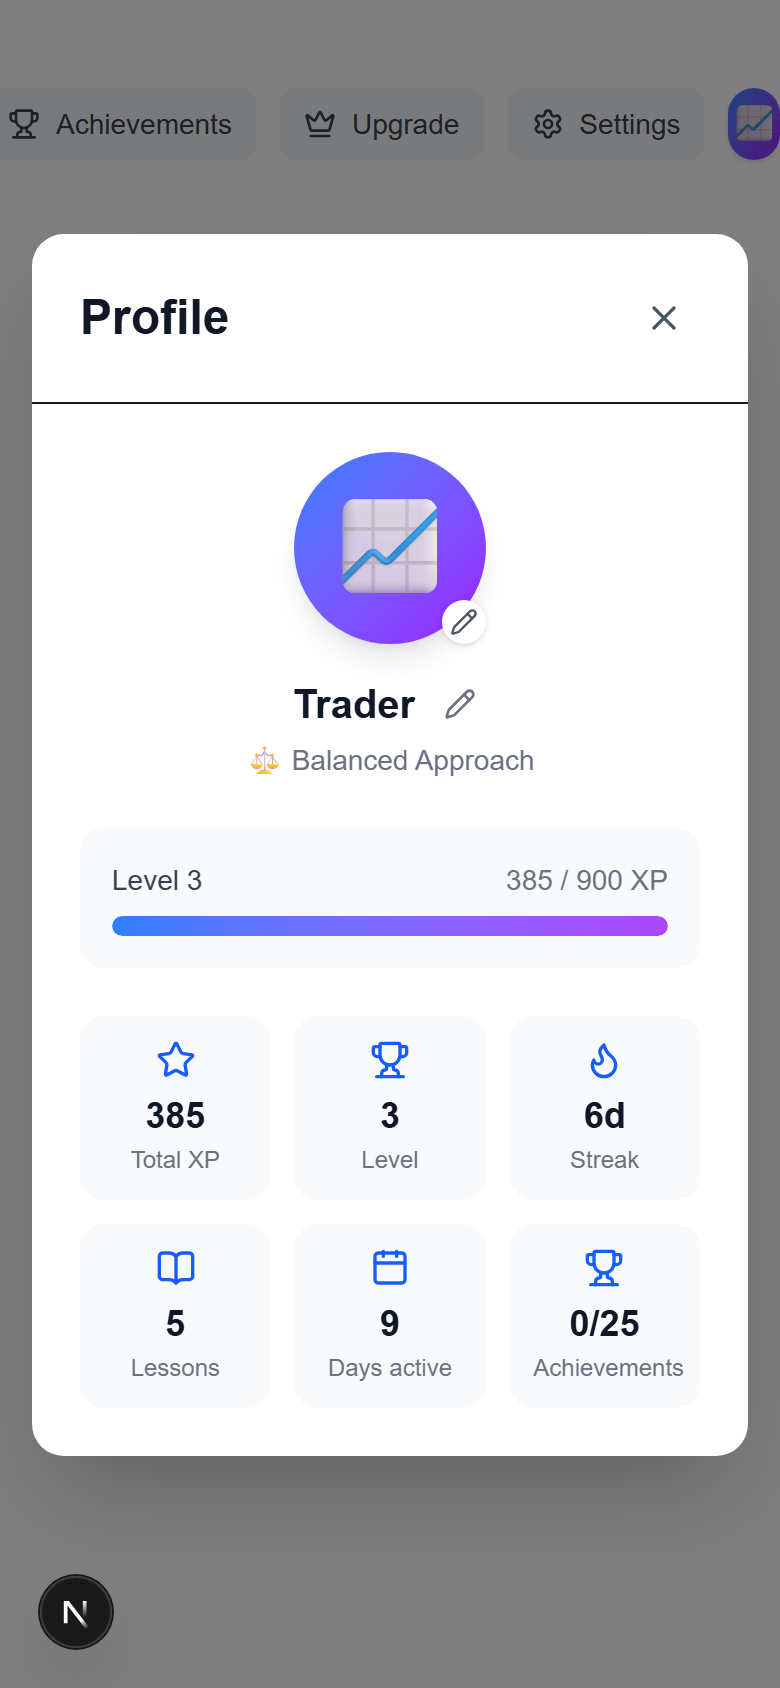
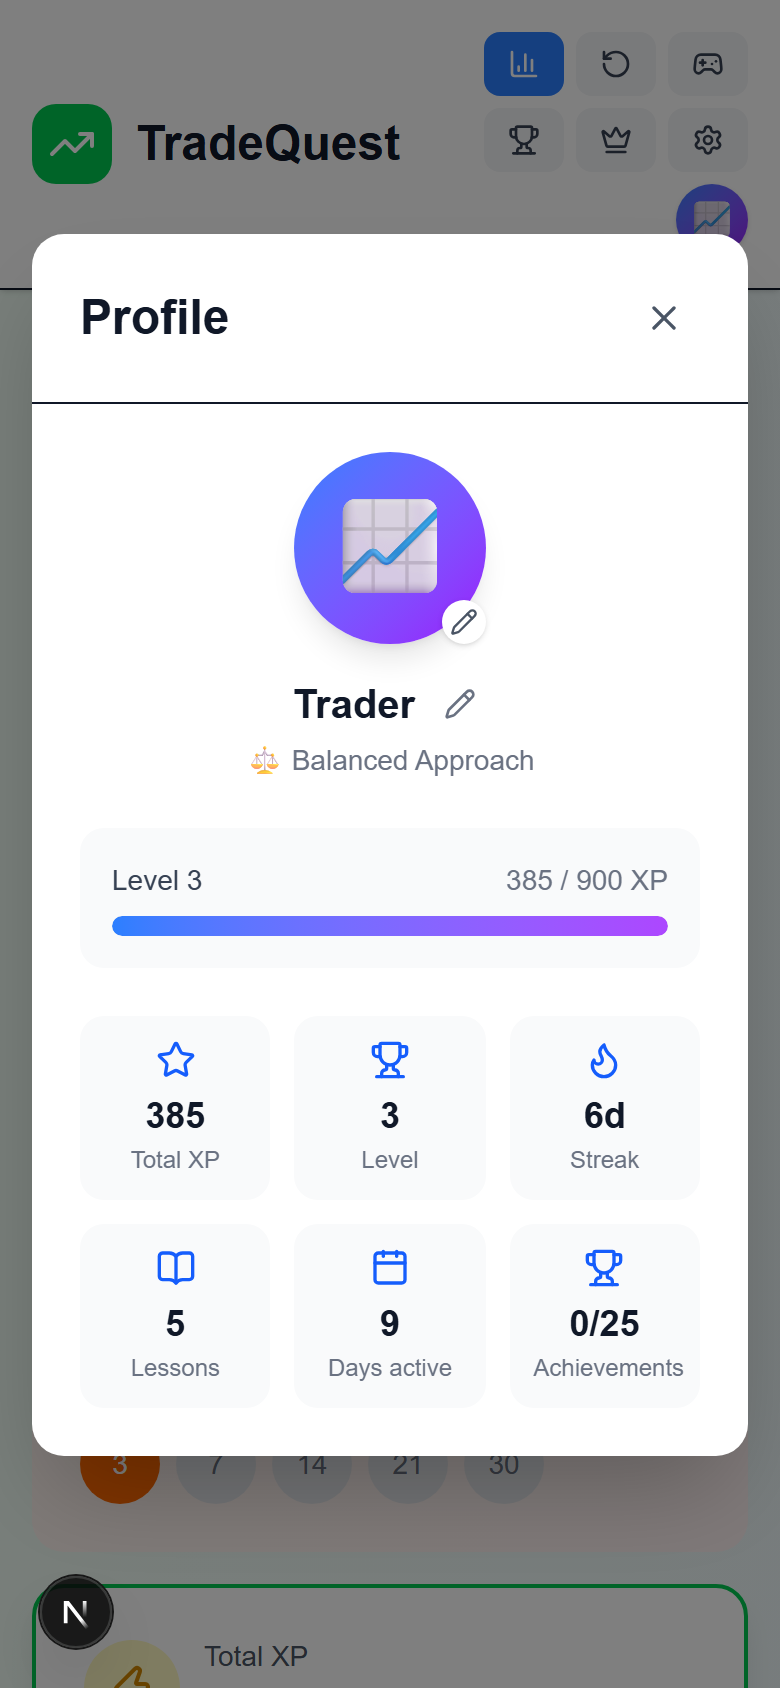
Mobile header fix + honest freeze UI
Header buttons were clipping off-screen at phone widths - now icon-only
below md and wrap to a second row. The streak-freeze button was dead (no
handler) and wrongly implied manual use - replaced with an explainer
strip since freezes auto-save the streak now.

Generated with [Devin](https://devin.ai)

diff --git a/app/page.tsx b/app/page.tsx
@@ -238,48 +238,54 @@ export default function Home() {
               </div>
               <div>
                 <h1 className={`text-2xl font-bold ${darkMode ? 'text-white' : 'text-gray-900'}`}>TradeQuest</h1>
-                <p className={`text-sm ${darkMode ? 'text-gray-400' : 'text-gray-600'}`}>Master trading through interactive learning</p>
+                <p className={`hidden sm:block text-sm ${darkMode ? 'text-gray-400' : 'text-gray-600'}`}>Master trading through interactive learning</p>
               </div>
             </div>
-            <div className="flex items-center gap-3">
+            {/* Icon-only on phones; wraps to a second row when needed */}
+            <div className="flex items-center justify-end flex-wrap gap-1.5 sm:gap-3">
               <button
                 onClick={() => setShowPaperTrading(true)}
+                aria-label="Paper Trading"
                 className={`flex items-center gap-2 px-3 py-2 rounded-lg transition-colors ${
                   darkMode ? 'bg-blue-600 text-white hover:bg-blue-700' : 'bg-blue-500 text-white hover:bg-blue-600'
                 }`}
               >
                 <BarChart3 className="w-4 h-4" />
-                <span className="text-sm font-medium">Paper Trading</span>
+                <span className="hidden md:inline text-sm font-medium">Paper Trading</span>
               </button>
               <button
                 onClick={() => setShowReview(true)}
+                aria-label="Review"
                 className={`flex items-center gap-2 px-3 py-2 rounded-lg transition-colors ${
                   darkMode ? 'bg-gray-700 text-gray-300 hover:bg-gray-600' : 'bg-gray-100 text-gray-700 hover:bg-gray-200'
                 }`}
               >
                 <RotateCcw className="w-4 h-4" />
-                <span className="text-sm font-medium">Review</span>
+                <span className="hidden md:inline text-sm font-medium">Review</span>
               </button>
               <button
                 onClick={() => setShowSimulator(true)}
+                aria-label="Simulator"
                 className={`flex items-center gap-2 px-3 py-2 rounded-lg transition-colors ${
                   darkMode ? 'bg-gray-700 text-gray-300 hover:bg-gray-600' : 'bg-gray-100 text-gray-700 hover:bg-gray-200'
                 }`}
               >
                 <Gamepad2 className="w-4 h-4" />
-                <span className="text-sm font-medium">Simulator</span>
+                <span className="hidden md:inline text-sm font-medium">Simulator</span>
               </button>
               <button
                 onClick={() => setShowAchievements(true)}
+                aria-label="Achievements"
                 className={`flex items-center gap-2 px-3 py-2 rounded-lg transition-colors ${
                   darkMode ? 'bg-gray-700 text-gray-300 hover:bg-gray-600' : 'bg-gray-100 text-gray-700 hover:bg-gray-200'
                 }`}
               >
                 <Trophy className="w-4 h-4" />
-                <span className="text-sm font-medium">Achievements</span>
+                <span className="hidden md:inline text-sm font-medium">Achievements</span>
               </button>
               <button
                 onClick={() => setShowPremiumModal(true)}
+                aria-label={isPremiumUser ? 'Premium' : 'Upgrade to Premium'}
                 className={`flex items-center gap-2 px-3 py-2 rounded-lg transition-colors ${
                   isPremiumUser
                     ? 'bg-gradient-to-r from-yellow-400 to-amber-500 text-white hover:from-yellow-500 hover:to-amber-600'
@@ -289,16 +295,17 @@ export default function Home() {
                 }`}
               >
                 <Crown className="w-4 h-4" />
-                <span className="text-sm font-medium">{isPremiumUser ? 'Premium' : 'Upgrade'}</span>
+                <span className="hidden md:inline text-sm font-medium">{isPremiumUser ? 'Premium' : 'Upgrade'}</span>
               </button>
               <button
                 onClick={() => setShowSettings(true)}
+                aria-label="Settings"
                 className={`flex items-center gap-2 px-3 py-2 rounded-lg transition-colors ${
                   darkMode ? 'bg-gray-700 text-gray-300 hover:bg-gray-600' : 'bg-gray-100 text-gray-700 hover:bg-gray-200'
                 }`}
               >
                 <Settings className="w-4 h-4" />
-                <span className="text-sm font-medium">Settings</span>
+                <span className="hidden md:inline text-sm font-medium">Settings</span>
               </button>
               <button
                 onClick={() => setShowProfile(true)}

diff --git a/components/StreakDisplay.tsx b/components/StreakDisplay.tsx
@@ -155,18 +155,17 @@ export default function StreakDisplay({ progress, darkMode }: StreakDisplayProps
         </div>
       </div>
 
-      {/* Streak Freeze Button */}
+      {/* Freeze inventory — freezes auto-save the streak when a day is
+          missed; there is no manual "use" */}
       {!isPremium && (progress.streakFreezes ?? 0) > 0 && (
-        <button
-          className={`w-full mt-4 flex items-center justify-center gap-2 p-3 rounded-lg transition-colors ${
-            darkMode
-              ? 'bg-cyan-600 hover:bg-cyan-700 text-white'
-              : 'bg-cyan-500 hover:bg-cyan-600 text-white'
-          }`}
-        >
+        <div className={`w-full mt-4 flex items-center justify-center gap-2 p-3 rounded-lg ${
+          darkMode ? 'bg-cyan-900/40 text-cyan-300' : 'bg-cyan-50 text-cyan-700'
+        }`}>
           <Snowflake className="w-4 h-4" />
-          <span className="font-medium">Use Streak Freeze ({progress.streakFreezes ?? 0} left)</span>
-        </button>
+          <span className="font-medium">
+            {progress.streakFreezes} freeze{(progress.streakFreezes ?? 0) === 1 ? '' : 's'} — auto-saves your streak if you miss a day
+          </span>
+        </div>
       )}
 
       {isPremium && (
